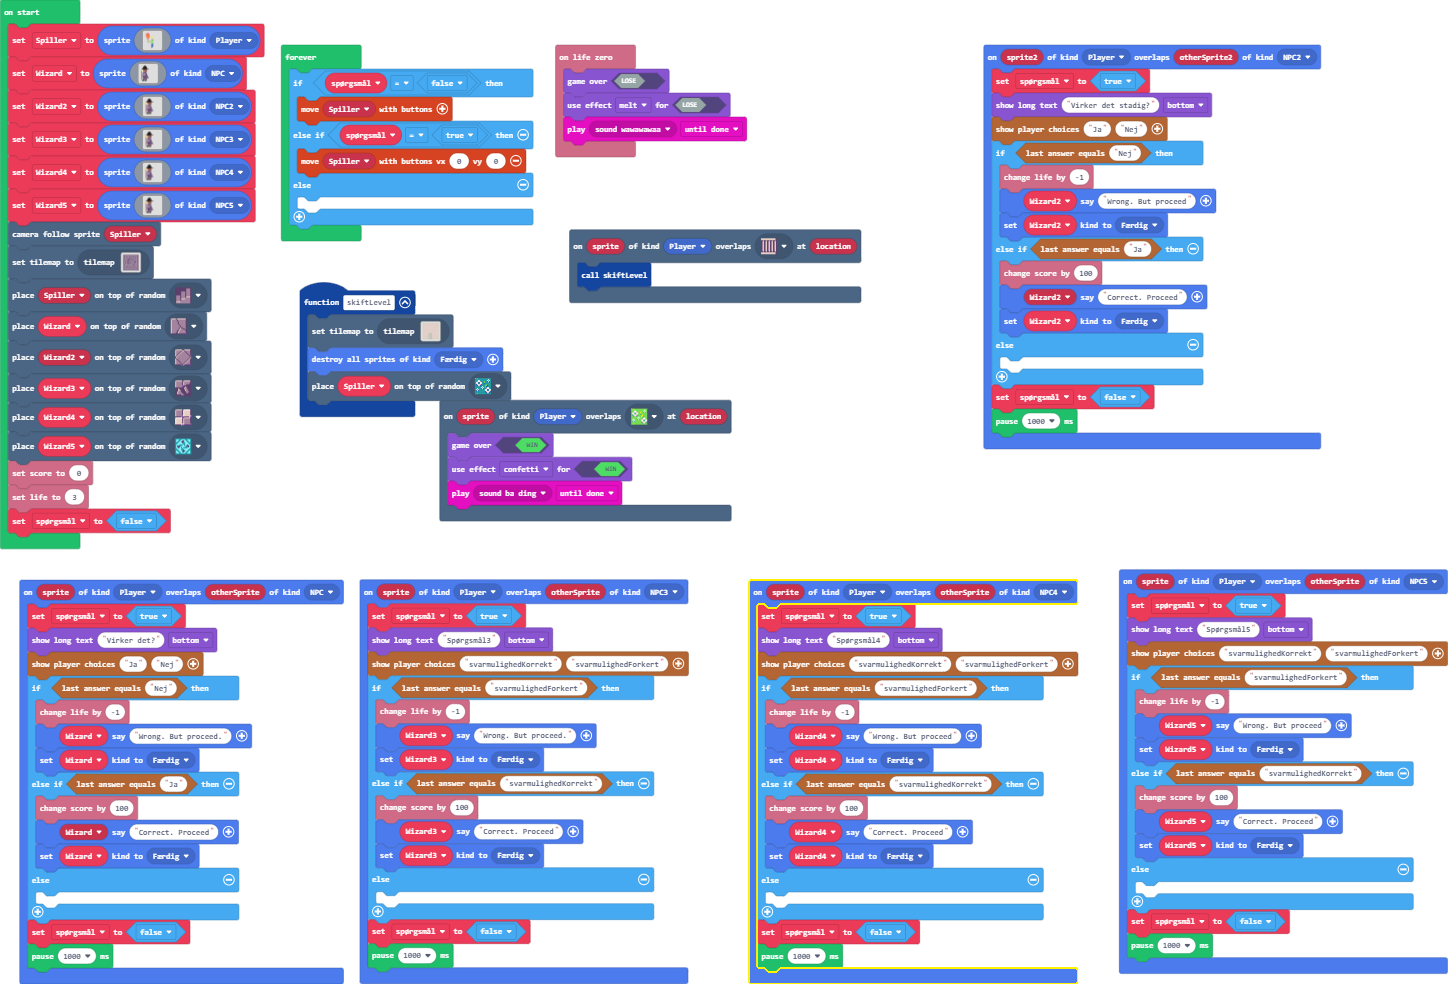
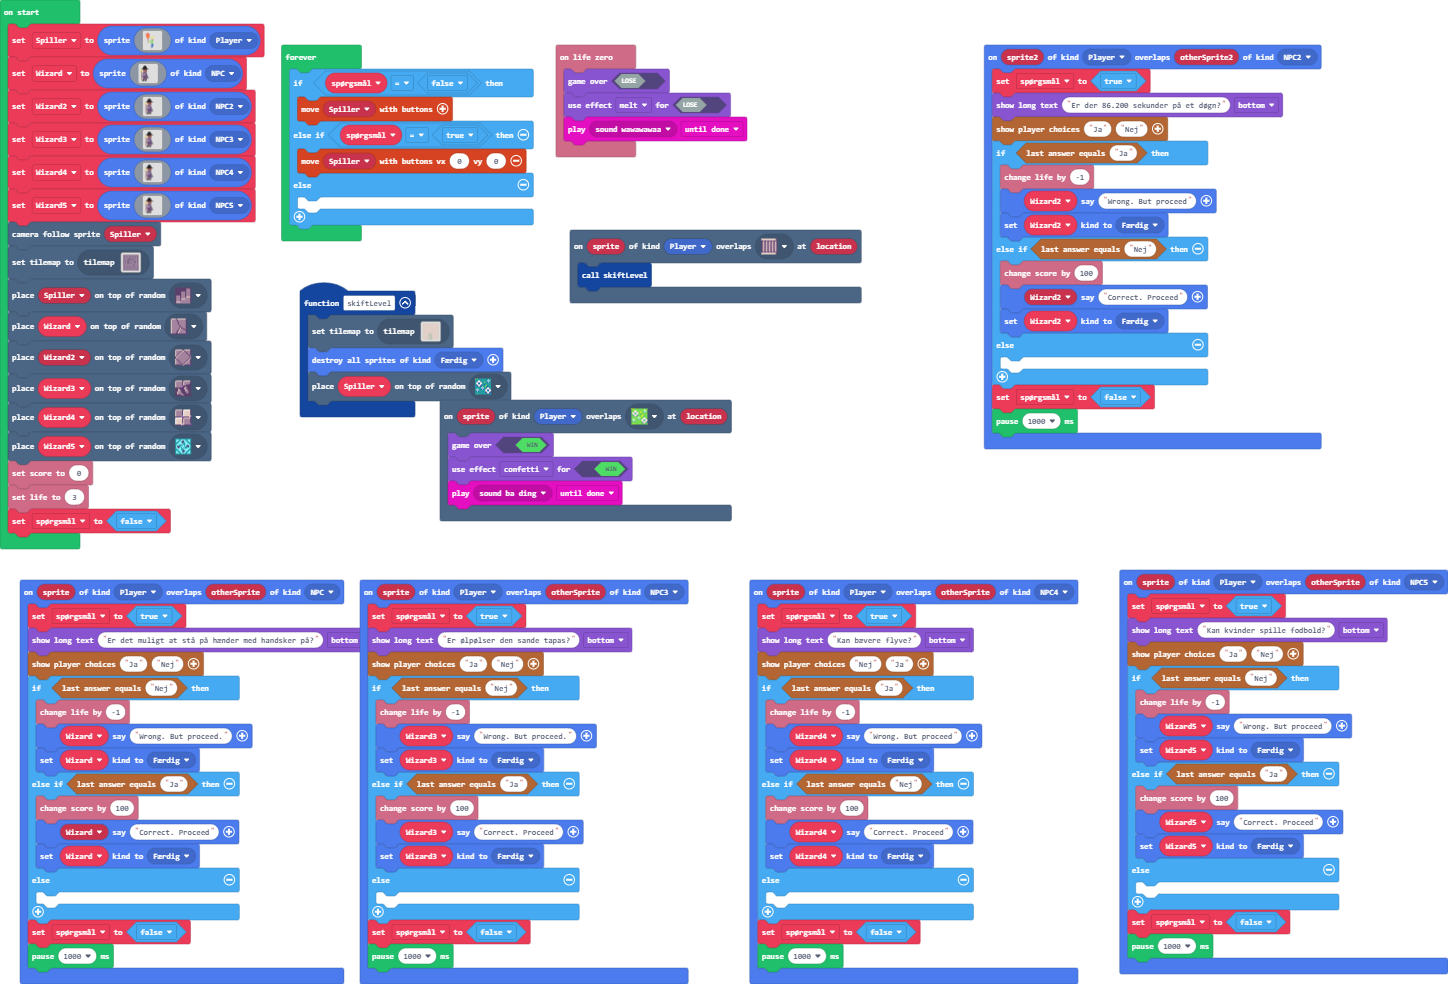
Update main.blocks, main.ts, tilemap.g.jres, tilemap.g.ts

diff --git a/main.ts b/main.ts
@@ -8,13 +8,13 @@ namespace SpriteKind {
 }
 sprites.onOverlap(SpriteKind.Player, SpriteKind.NPC2, function (sprite2, otherSprite2) {
     spørgsmål = true
-    game.showLongText("Virker det stadig?", DialogLayout.Bottom)
+    game.showLongText("Er der 86.200 sekunder på et døgn?", DialogLayout.Bottom)
     story.showPlayerChoices("Ja", "Nej")
-    if (story.checkLastAnswer("Nej")) {
+    if (story.checkLastAnswer("Ja")) {
         info.changeLifeBy(-1)
         Wizard2.sayText("Wrong. But proceed")
         Wizard2.setKind(SpriteKind.Færdig)
-    } else if (story.checkLastAnswer("Ja")) {
+    } else if (story.checkLastAnswer("Nej")) {
         info.changeScoreBy(100)
         Wizard2.sayText("Correct. Proceed")
         Wizard2.setKind(SpriteKind.Færdig)
@@ -26,7 +26,7 @@ sprites.onOverlap(SpriteKind.Player, SpriteKind.NPC2, function (sprite2, otherSp
 })
 sprites.onOverlap(SpriteKind.Player, SpriteKind.NPC, function (sprite, otherSprite) {
     spørgsmål = true
-    game.showLongText("Virker det?", DialogLayout.Bottom)
+    game.showLongText("Er det muligt at stå på hænder med handsker på?", DialogLayout.Bottom)
     story.showPlayerChoices("Ja", "Nej")
     if (story.checkLastAnswer("Nej")) {
         info.changeLifeBy(-1)
@@ -44,13 +44,13 @@ sprites.onOverlap(SpriteKind.Player, SpriteKind.NPC, function (sprite, otherSpri
 })
 sprites.onOverlap(SpriteKind.Player, SpriteKind.NPC5, function (sprite, otherSprite) {
     spørgsmål = true
-    game.showLongText("Spørgsmål5", DialogLayout.Bottom)
-    story.showPlayerChoices("svarmulighedKorrekt", "svarmulighedForkert")
-    if (story.checkLastAnswer("svarmulighedForkert")) {
+    game.showLongText("Kan kvinder spille fodbold?", DialogLayout.Bottom)
+    story.showPlayerChoices("Ja", "Nej")
+    if (story.checkLastAnswer("Nej")) {
         info.changeLifeBy(-1)
         Wizard5.sayText("Wrong. But proceed")
         Wizard5.setKind(SpriteKind.Færdig)
-    } else if (story.checkLastAnswer("svarmulighedKorrekt")) {
+    } else if (story.checkLastAnswer("Ja")) {
         info.changeScoreBy(100)
         Wizard5.sayText("Correct. Proceed")
         Wizard5.setKind(SpriteKind.Færdig)
@@ -65,13 +65,13 @@ scene.onOverlapTile(SpriteKind.Player, sprites.dungeon.stairWest, function (spri
 })
 sprites.onOverlap(SpriteKind.Player, SpriteKind.NPC3, function (sprite, otherSprite) {
     spørgsmål = true
-    game.showLongText("Spørgsmål3", DialogLayout.Bottom)
-    story.showPlayerChoices("svarmulighedKorrekt", "svarmulighedForkert")
-    if (story.checkLastAnswer("svarmulighedForkert")) {
+    game.showLongText("Er ølpølser den sande tapas?", DialogLayout.Bottom)
+    story.showPlayerChoices("Ja", "Nej")
+    if (story.checkLastAnswer("Nej")) {
         info.changeLifeBy(-1)
         Wizard3.sayText("Wrong. But proceed.")
         Wizard3.setKind(SpriteKind.Færdig)
-    } else if (story.checkLastAnswer("svarmulighedKorrekt")) {
+    } else if (story.checkLastAnswer("Ja")) {
         info.changeScoreBy(100)
         Wizard3.sayText("Correct. Proceed")
         Wizard3.setKind(SpriteKind.Færdig)
@@ -83,13 +83,13 @@ sprites.onOverlap(SpriteKind.Player, SpriteKind.NPC3, function (sprite, otherSpr
 })
 sprites.onOverlap(SpriteKind.Player, SpriteKind.NPC4, function (sprite, otherSprite) {
     spørgsmål = true
-    game.showLongText("Spørgsmål4", DialogLayout.Bottom)
-    story.showPlayerChoices("svarmulighedKorrekt", "svarmulighedForkert")
-    if (story.checkLastAnswer("svarmulighedForkert")) {
+    game.showLongText("Kan bævere flyve?", DialogLayout.Bottom)
+    story.showPlayerChoices("Nej", "Ja")
+    if (story.checkLastAnswer("Ja")) {
         info.changeLifeBy(-1)
         Wizard4.sayText("Wrong. But proceed")
         Wizard4.setKind(SpriteKind.Færdig)
-    } else if (story.checkLastAnswer("svarmulighedKorrekt")) {
+    } else if (story.checkLastAnswer("Nej")) {
         info.changeScoreBy(100)
         Wizard4.sayText("Correct. Proceed")
         Wizard4.setKind(SpriteKind.Færdig)

diff --git a/tilemap.g.ts b/tilemap.g.ts
@@ -125,6 +125,25 @@ namespace myTiles {
 .............2.....2...............
 .............2.....2...............
 `, [myTiles.transparency16,sprites.castle.tileGrass2,sprites.castle.tilePath7,sprites.castle.tilePath1,sprites.castle.tilePath3,sprites.castle.tilePath9,sprites.castle.tilePath8,sprites.castle.tilePath4,sprites.castle.tilePath2,sprites.castle.tilePath6,sprites.castle.tilePath5,sprites.castle.tileDarkGrass2,sprites.castle.tileDarkGrass1,sprites.castle.tileDarkGrass3,sprites.builtin.forestTiles0], TileScale.Sixteen);
+            case "level4":
+            case "level4":return tiles.createTilemap(hex`1000100000000000000000000000000000000000000000000000000000000000000000000000000000000000000000000000000000000000000000000000000000000000000000000000000000000000000000000000000000000000000000000000000000000000000000000000000000000000000000000000000000000000000000000000000000000000000000000000000000000000000000000000000000000000000000000000000000000000000000000000000000000000000000000000000000000000000000000000000000000000000000000000000000000000000000000000000000000000000000000000000000000000000000000000000000000000`, img`
+. . . . . . . . . . . . . . . . 
+. . . . . . . . . . . . . . . . 
+. . . . . . . . . . . . . . . . 
+. . . . . . . . . . . . . . . . 
+. . . . . . . . . . . . . . . . 
+. . . . . . . . . . . . . . . . 
+. . . . . . . . . . . . . . . . 
+. . . . . . . . . . . . . . . . 
+. . . . . . . . . . . . . . . . 
+. . . . . . . . . . . . . . . . 
+. . . . . . . . . . . . . . . . 
+. . . . . . . . . . . . . . . . 
+. . . . . . . . . . . . . . . . 
+. . . . . . . . . . . . . . . . 
+. . . . . . . . . . . . . . . . 
+. . . . . . . . . . . . . . . . 
+`, [myTiles.transparency16], TileScale.Sixteen);
         }
         return null;
     })
